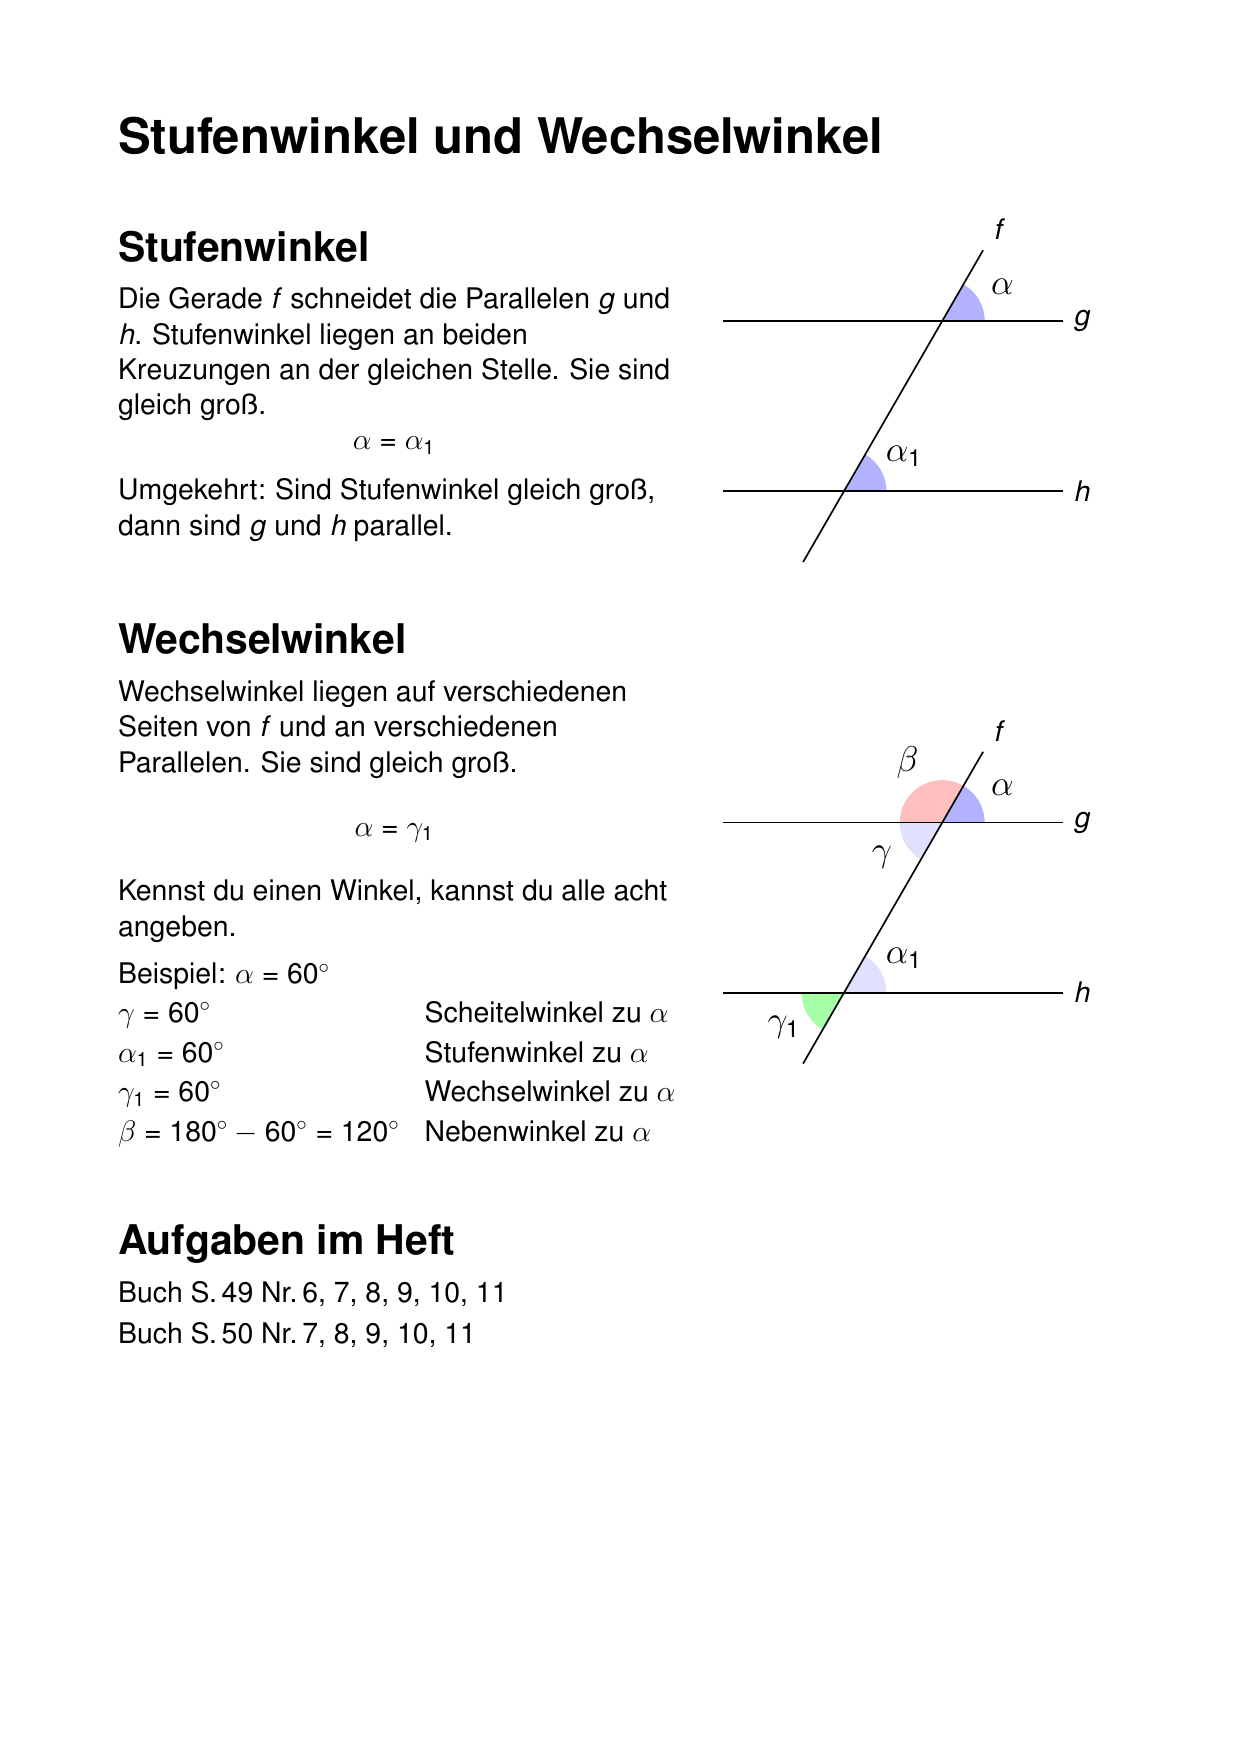
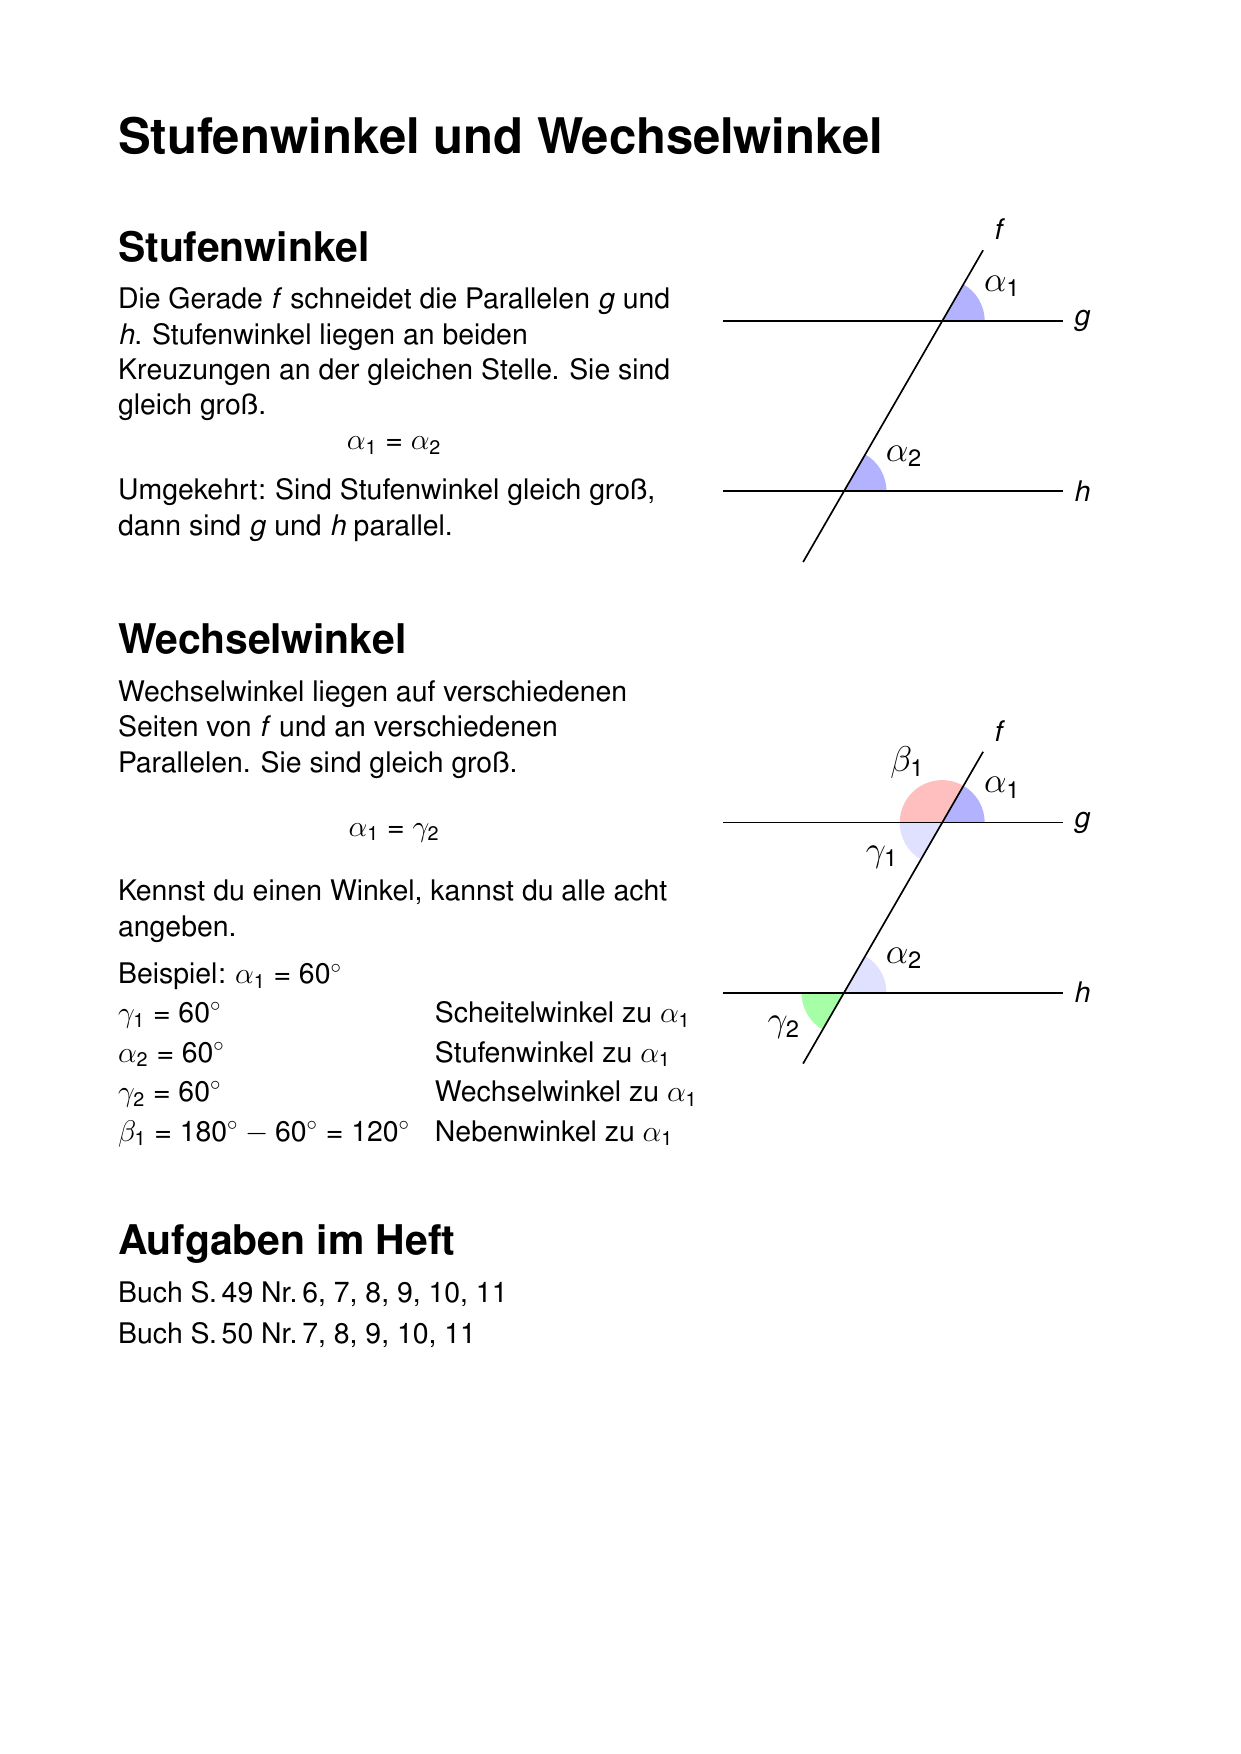
Winkel an zwei Kreuzungen durchgehend nummeriert: oben Index 1, unten Index 2
Claude-Session: https://claude.ai/code/session_014D9hKT6ZNfurDZqoqa9agL

diff --git a/stufenwinkel-wechselwinkel.html b/stufenwinkel-wechselwinkel.html
@@ -125,7 +125,7 @@ function outLab(v, p, q, s, cls = 'tx') {
 // ---------- Zwei Parallelen und eine Gerade ----------
 const GY = 130, HY = 390, F0 = P(400, 260);
 let a = 60, tlt = 0, off = 0, b = 50, marked = false, q8 = null, pq = null;
-const NM = ['α', 'β', 'γ', 'δ'], SUB = ['', '₁'];
+const NM = ['α', 'β', 'γ', 'δ'], SUB = ['₁', '₂'];
 const nm = (k, i) => NM[i] + SUB[k];
 const key = (k, i) => k + ',' + i;
 // Schnittpunkt von f mit der Höhe y.
@@ -153,14 +153,14 @@ function par(o = {}) {
 function rot(w) { let n = Math.round(w); if (n >= 180) n -= 180; a = clamp(n, 35, 145); }
 function tilt(w) { let x = w > 180 ? w - 360 : w; if (x > 90) x -= 180; if (x < -90) x += 180; tlt = Math.abs(x) < 2 ? 0 : clamp(Math.round(x), -15, 15); }
 
-// Begründung der Stufenwinkel: g wird an f entlang verschoben und nimmt den Winkel α als α' mit.
-// Schritt 1: α und α'. Schritt 2: α' liegt auf α₁. Schritt 3: α und α₁.
+// Begründung der Stufenwinkel: g wird an f entlang verschoben und nimmt den Winkel α₁ als α₁' mit.
+// Schritt 1: α₁ und α₁'. Schritt 2: α₁' liegt auf α₂. Schritt 3: α₁ und α₂.
 function stufFig(n) {
   const [g0, h0] = C(), Q = P(g0.x + off * (h0.x - g0.x), g0.y + off * (h0.y - g0.y)), w = v(0, 0), col = {};
   if (n !== 2) col['0,0'] = 'c1';
   if (n === 3) col['1,0'] = 'c1';
   let s = par({ col, names: 1, vals: 1, only: Object.keys(col) });
-  if (n < 3) s += xline(Q, 0, 'gh') + wedge(Q, 0, a, 78, 'c1', n === 2 ? `α' = α₁` : `α' = ${w}°`, 'tx', 150);
+  if (n < 3) s += xline(Q, 0, 'gh') + wedge(Q, 0, a, 78, 'c1', n === 2 ? `α₁' = α₂` : `α₁' = ${w}°`, 'tx', 150);
   return s;
 }
 function shiftDrag(w, p) {
@@ -168,12 +168,12 @@ function shiftDrag(w, p) {
   const t = ((p.x - g0.x) * dx + (p.y - g0.y) * dy) / (dx * dx + dy * dy);
   off = t > 0.94 ? 1 : clamp(t, 0.25, 1);
 }
-const WS = ["α' = α &nbsp;&nbsp; verschoben", "α' = α₁ &nbsp;&nbsp; g ∥ h", 'Also: α = α₁'];
+const WS = ["α₁' = α₁ &nbsp;&nbsp; verschoben", "α₁' = α₂ &nbsp;&nbsp; g ∥ h", 'Also: α₁ = α₂'];
 const whyS = n => ({
   t: 'Warum sind Stufenwinkel gleich groß?', fig: () => stufFig(n), eq: () => lines(WS, n),
   enter: () => { off = n === 1 ? 0.4 : 1; }, drag: n === 1 ? shiftDrag : rot,
-  txt: [() => off === 1 ? 'Die verschobene Gerade g liegt jetzt genau auf h.' : 'Schieb g an f entlang nach unten. Dabei ändert sich der Winkel nicht. Der verschobene Winkel heißt α\'.',
-    'g und h sind parallel. Deshalb liegt die verschobene Gerade genau auf h, und α\' liegt genau auf α₁.',
+  txt: [() => off === 1 ? 'Die verschobene Gerade g liegt jetzt genau auf h.' : 'Schieb g an f entlang nach unten. Dabei ändert sich der Winkel nicht. Der verschobene Winkel heißt α₁\'.',
+    'g und h sind parallel. Deshalb liegt die verschobene Gerade genau auf h, und α₁\' liegt genau auf α₂.',
     'Stufenwinkel an parallelen Geraden sind gleich groß.'][n - 1]
 });
 
@@ -212,7 +212,7 @@ function newPq(first) {
 }
 
 const WP = [[0, 0, 1, 2], [0, 1, 1, 3], [0, 2, 1, 0], [0, 3, 1, 1]];
-const WW = ['α = α₁ &nbsp;&nbsp; Stufenwinkel', 'α₁ = γ₁ &nbsp;&nbsp; Scheitelwinkel', 'Also: α = γ₁'];
+const WW = ['α₁ = α₂ &nbsp;&nbsp; Stufenwinkel', 'α₂ = γ₂ &nbsp;&nbsp; Scheitelwinkel', 'Also: α₁ = γ₂'];
 const whyW = n => ({
   t: 'Warum sind Wechselwinkel gleich groß?', drag: rot,
   fig: () => { const c = [{ '0,0': 'c1', '1,0': 'c1' }, { '1,0': 'c1', '1,2': 'c3' }, { '0,0': 'c1', '1,2': 'c3' }][n - 1]; return par({ col: c, names: 1, vals: 1, only: Object.keys(c) }); },
@@ -234,7 +234,7 @@ const STEPS = [
   { t: 'Und wenn g und h nicht parallel sind?', c: () => C()[1], enter: () => { tlt = 8; }, drag: tilt,
     fig: () => par({ col: { '0,0': 'c1', '1,0': 'c1' }, names: 1, vals: 1, only: ['0,0', '1,0'] }),
     txt: () => tlt === 0 ? 'g und h sind parallel. Die Stufenwinkel sind gleich groß.' : 'g und h sind nicht parallel. Die Stufenwinkel sind verschieden groß.',
-    eq: () => `α = ${v(0, 0)}° &nbsp;&nbsp; α₁ = ${v(1, 0)}°` },
+    eq: () => `α₁ = ${v(0, 0)}° &nbsp;&nbsp; α₂ = ${v(1, 0)}°` },
   // Die Antwort
   { t: 'Zurück zum Parkplatz', c: K2, enter: () => { b = 50; marked = false; },
     drag: w => { if (w > 180) w = w > 270 ? 0 : 180; setB(Math.round(w / 5) * 5); },
@@ -252,7 +252,7 @@ const STEPS = [
   { t: 'Aufgabe: Ein Winkel reicht für alle acht', enter: newQ8, tap: q8Tap, btns: [{ l: 'Neue Aufgabe', f: newQ8 }], fig: q8Fig },
   { t: 'Aufgabe: Parallel oder nicht?', enter: () => newPq(true), btns: [{ l: 'Auflösen', f: () => { pq.show = !pq.show; } }, { l: 'Neue Aufgabe', f: newPq }],
     fig: () => par({ col: { '0,0': 'c1', '1,0': 'c1' }, names: 1, vals: 1, only: ['0,0', '1,0'], noPar: 1 }), txt: 'Sind g und h parallel?',
-    eq: () => !pq.show ? '' : pq.d ? `α = ${v(0, 0)}°, α₁ = ${v(1, 0)}°. Verschieden, also nicht parallel!` : `α = α₁ = ${v(0, 0)}°. Gleich, also parallel!` }
+    eq: () => !pq.show ? '' : pq.d ? `α₁ = ${v(0, 0)}°, α₂ = ${v(1, 0)}°. Verschieden, also nicht parallel!` : `α₁ = α₂ = ${v(0, 0)}°. Gleich, also parallel!` }
 ];
 
 // ---------- Ablauf ----------

diff --git a/index.html b/index.html
@@ -42,7 +42,7 @@ html.fs #fs .fo{display:inline}
 <section><h2>Mittelsenkrechte und Winkelhalbierende</h2><div class="row"><a class="go" href="mittelsenkrechte-winkelhalbierende.html">Einführung</a><a href="ab.html?n=ab-mittelsenkrechte-winkelhalbierende">Arbeitsblatt</a></div></section>
 <section><h2>Umkreis und Inkreis</h2><div class="row"><a class="go" href="umkreis-inkreis.html">Einführung</a><a href="ab.html?n=ab-umkreis-inkreis">Arbeitsblatt</a></div></section>
 <section><h2>Dreiecke konstruieren: SSS, SWS, WSW</h2><div class="row"><a class="go" href="dreiecke-konstruieren.html">Einführung</a><a href="ab.html?n=ab-dreiecke-konstruieren">Arbeitsblatt</a></div></section>
-<div class="fassung"><span>Fassung <span id="stand">13.11.2026 10:28</span></span><button id="aktualisieren" type="button">Neueste Fassung laden</button><span id="fassung-status"></span></div>
+<div class="fassung"><span>Fassung <span id="stand">13.11.2026 10:30</span></span><button id="aktualisieren" type="button">Neueste Fassung laden</button><span id="fassung-status"></span></div>
 <script>
 // Vollbild: Knopf oder Taste F. Nach einem Seitenwechsel holt der erste Tipp das Vollbild zurück.
 (() => {

diff --git a/sw.js b/sw.js
@@ -1,5 +1,5 @@
 // Eigener Cache-Präfix, damit andere Werkzeuge unter derselben Adresse unberührt bleiben.
-const CACHE = 'plenum-a2052b37';
+const CACHE = 'plenum-93064bb7';
 // Alles, was beim ersten Aufruf in den Speicher kommt.
 const FILES = [
   './',
